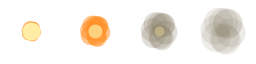
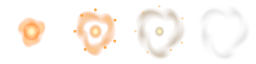
Revamp rifle and launcher flashes

diff --git a/scripts/muzzle-flash-sheet.ts b/scripts/muzzle-flash-sheet.ts
@@ -1,6 +1,5 @@
-// Builds the muzzle flash clip's sprite sheet: a hot core and uneven rays that
-// flare, then fade. Each cell keeps a transparent border, so nothing wraps.
 import {
+  blendPixel,
   createFrame,
   drawDisc,
   mixRgba,
@@ -12,18 +11,27 @@ import type { PNG } from "pngjs";
 import type { Rgba } from "./sprite-sheet.ts";
 
 const PERIOD = 63;
-const RAYS = 9;
-/** Disc samples per pixel of ray length, so strokes stay continuous. */
-const SAMPLES_PER_PIXEL = 2;
-const HOT: Rgba = [1, 0.97, 0.82, 1];
-const FLAME: Rgba = [1, 0.62, 0.18, 0.7];
-/** Each frame's core radius, longest ray, and brightness. */
+const HOT: Rgba = [1, 0.96, 0.8, 1];
+const AMBER: Rgba = [1, 0.41, 0.08, 1];
+/** Each frame's core radius, longest spike, and brightness. */
 const STAGES = [
-  { core: 6, ray: 15, alpha: 1, seconds: 0.025 },
-  { core: 9, ray: 27, alpha: 1, seconds: 0.035 },
-  { core: 7, ray: 21, alpha: 0.65, seconds: 0.03 },
-  { core: 4, ray: 12, alpha: 0.3, seconds: 0.04 },
+  { core: 8, reach: 22, alpha: 1, seconds: 0.025 },
+  { core: 8.5, reach: 28, alpha: 1, seconds: 0.035 },
+  { core: 4.5, reach: 18, alpha: 0.62, seconds: 0.03 },
+  { core: 2.5, reach: 9, alpha: 0.28, seconds: 0.04 },
 ];
+
+const SPIKES = [
+  { angle: -1.05, length: 1, width: 5 },
+  { angle: 0.49, length: 0.86, width: 5 },
+  { angle: 1.94, length: 0.76, width: 4 },
+  { angle: 3.26, length: 0.68, width: 3.5 },
+  { angle: 4.14, length: 0.53, width: 2.6 },
+].map((spike) => ({
+  ...spike,
+  x: Math.cos(spike.angle),
+  y: Math.sin(spike.angle),
+}));
 
 /** The content pack's muzzle flash clip. */
 export const MUZZLE_FLASH_CLIP = {
@@ -36,36 +44,48 @@ export const MUZZLE_FLASH_CLIP = {
 /** Rebuilds the sheet the same way on every run. */
 export function buildMuzzleFlashSheet(): PNG {
   const random = seededRandom(0xf1a5);
-  const rays = Array.from({ length: RAYS }, (_, index) => ({
-    angle: ((index + random() * 0.6) / RAYS) * Math.PI * 2,
-    reach: 0.55 + random() * 0.45,
-    width: 1.6 + random() * 1.4,
-  }));
   const center = PERIOD / 2;
-  const fade = (color: Rgba, alpha: number): Rgba => [
-    color[0],
-    color[1],
-    color[2],
-    color[3] * alpha,
-  ];
-  const frames = STAGES.map(({ core, ray, alpha }) => {
+  const sparks = Array.from({ length: 5 }, (_, index) => {
+    const angle = ((index + random() * 0.6) / 5) * Math.PI * 2;
+    return {
+      x: Math.cos(angle),
+      y: Math.sin(angle),
+      reach: 0.8 + random() * 0.2,
+    };
+  });
+  const frames = STAGES.map(({ core, reach, alpha }, stage) => {
     const frame = createFrame(PERIOD);
-    for (const { angle, reach, width } of rays) {
-      const length = ray * reach;
-      const steps = Math.ceil(length * SAMPLES_PER_PIXEL);
-      for (let step = 0; step <= steps; step++) {
-        const t = step / steps;
+    for (let y = 1; y < PERIOD; y++) {
+      for (let x = 1; x < PERIOD; x++) {
+        const dx = x + 0.5 - center;
+        const dy = y + 0.5 - center;
+        const radius = Math.hypot(dx, dy);
+        let light = Math.max(0, 1 - radius / (core + 4));
+        for (const spike of SPIKES) {
+          const along = (dx * spike.x + dy * spike.y) / (reach * spike.length);
+          if (along < 0 || along >= 1) continue;
+          const across = Math.abs(dy * spike.x - dx * spike.y);
+          const width = spike.width * (1 - along);
+          const edge = Math.min(1, Math.max(0, width + 0.55 - across));
+          light = Math.max(light, edge * (1 - along * 0.66));
+        }
+        const heat = Math.max(light * 0.42, 1 - radius / (core * 1.5));
+        const [red, green, blue] = mixRgba(AMBER, HOT, heat);
+        blendPixel(frame, x, y, [red, green, blue, light * alpha]);
+      }
+    }
+    if (stage >= 1) {
+      for (const spark of sparks) {
+        const distance = spark.reach * (19 + stage * 3.4);
         drawDisc(
           frame,
-          center + Math.cos(angle) * length * t,
-          center + Math.sin(angle) * length * t,
-          width * (1 - t) + 0.5,
-          fade(mixRgba(HOT, FLAME, t), alpha * (1 - t * 0.6)),
+          center + spark.x * distance,
+          center + spark.y * distance,
+          1.85 - stage * 0.23,
+          [1, 0.66, 0.2, alpha * 0.9],
         );
       }
     }
-    for (let radius = core; radius > 0; radius -= 1.5)
-      drawDisc(frame, center, center, radius, fade(HOT, alpha * 0.45));
     return frame;
   });
   return packSheet(frames, STAGES.length);

diff --git a/scripts/launch-flash-sheet.ts b/scripts/launch-flash-sheet.ts
@@ -1,52 +1,84 @@
 import {
+  blendPixel,
   createFrame,
   drawDisc,
+  mixRgba,
   packSheet,
   seededRandom,
 } from "./sprite-sheet.ts";
+
 import type { Rgba } from "./sprite-sheet.ts";
 
-const STAGES = [0.04, 0.045, 0.05, 0.065];
+const PERIOD = 63;
+const HOT: Rgba = [1, 0.96, 0.76, 1];
+const AMBER: Rgba = [1, 0.43, 0.075, 1];
+const EXHAUST: Rgba = [0.62, 0.64, 0.61, 1];
+const STAGES = [
+  { radius: 10, width: 5, flare: 1, haze: 0.2, core: 7, seconds: 0.04 },
+  { radius: 16, width: 6, flare: 0.83, haze: 0.36, core: 4.5, seconds: 0.045 },
+  { radius: 20, width: 7, flare: 0.17, haze: 0.54, core: 2.5, seconds: 0.05 },
+  { radius: 22, width: 7, flare: 0, haze: 0.28, core: 0, seconds: 0.065 },
+];
+
 export const LAUNCH_FLASH_CLIP = {
-  columns: 4,
+  columns: STAGES.length,
   rows: 1,
-  frames: STAGES.map((seconds, cell) => ({ cell, seconds })),
+  frames: STAGES.map(({ seconds }, cell) => ({ cell, seconds })),
   playback: "once",
 } as const;
 
-/** A broad amber pressure flash with a fading exhaust cloud. */
+/** An uneven ring of hot gas that opens into curling exhaust. */
 export function buildLaunchFlashSheet() {
   const random = seededRandom(0x1a0c);
-  const clouds = Array.from({ length: 9 }, () => ({
-    angle: random() * Math.PI * 2,
-    reach: 0.6 + random() * 0.4,
-  }));
-  return packSheet(
-    STAGES.map((_, index) => {
-      const frame = createFrame(63);
-      const radius = [9, 14, 17, 21][index]!;
-      for (const { angle, reach } of clouds) {
-        const color: Rgba =
-          index < 2
-            ? [1, 0.55, 0.12, 0.6 - index * 0.1]
-            : [0.53, 0.49, 0.4, 0.25 - (index - 2) * 0.1];
+  const embers = Array.from({ length: 7 }, (_, index) => {
+    const angle = ((index + random() * 0.62) / 7) * Math.PI * 2;
+    return {
+      x: Math.cos(angle),
+      y: Math.sin(angle),
+      reach: 0.8 + random() * 0.2,
+    };
+  });
+  const center = PERIOD / 2;
+  const frames = STAGES.map(({ radius, width, flare, haze, core }, stage) => {
+    const frame = createFrame(PERIOD);
+    for (let y = 1; y < PERIOD; y++) {
+      for (let x = 1; x < PERIOD; x++) {
+        const dx = (x + 0.5 - center) * 1.09;
+        const dy = y + 0.5 - center;
+        const distance = Math.hypot(dx, dy);
+        const angle = Math.atan2(dy, dx);
+        const wave = Math.cos(angle * 3 + 1.2);
+        const curl = Math.sin(angle * 5 + distance * 0.27);
+        const crest = radius * (1 + wave * 0.13 + curl * 0.07);
+        const band = Math.max(0, 1 - Math.abs(distance - crest) / width);
+        const taper = Math.min(1, Math.max(0, (29.5 - distance) / 4));
+        const pressure = band * (0.68 + wave * 0.2 + curl * 0.12) * flare;
+        const smoke = band * (0.63 + curl * 0.37) * haze;
+        const ignition = core ? Math.max(0, 1 - distance / (core + 3)) : 0;
+        const heat = Math.max(ignition * 1.25, pressure * 0.88);
+        const opacity = Math.min(1, (pressure + smoke + ignition * 2) * taper);
+        const [red, green, blue] = mixRgba(
+          mixRgba(EXHAUST, AMBER, flare),
+          HOT,
+          Math.min(1, heat),
+        );
+        if (opacity > 0) blendPixel(frame, x, y, [red, green, blue, opacity]);
+      }
+    }
+    if (stage === 1 || stage === 2) {
+      for (const ember of embers) {
+        const distance = (19 + stage * 3.8) * ember.reach;
         drawDisc(
           frame,
-          31.5 + Math.cos(angle) * radius * reach * 0.5,
-          31.5 + Math.sin(angle) * radius * reach * 0.5,
-          radius * 0.7,
-          color,
+          center + ember.x * distance,
+          center + ember.y * distance,
+          stage === 1 ? 1.45 : 1.1,
+          [1, 0.63, 0.21, stage === 1 ? 0.88 : 0.46],
         );
       }
-      if (index < 3)
-        drawDisc(frame, 31.5, 31.5, 9 - index * 2, [
-          1,
-          0.93,
-          0.65,
-          1 - index * 0.3,
-        ]);
-      return frame;
-    }),
-    4,
-  );
+    }
+    return frame;
+  });
+
+  return packSheet(frames, STAGES.length);
 }

diff --git a/tests/circle-wolf-den.test.ts b/tests/circle-wolf-den.test.ts
@@ -202,7 +202,7 @@ test("the authored paid opening delivers Lifebloom, reveals the second site, and
   until(() => !!sim.actorById("sentinel") && !!sim.actorById("wayfinder"));
   expect(balance(sim)).toBe(0);
   expect(sim.economy!.loot.every(({ collected }) => !collected)).toBe(true);
-});
+}, 20_000);
 
 /**
  * Plays the authored introduction. With `checkpoints`, it reloads from the

diff --git a/DESIGN.md b/DESIGN.md
@@ -1083,8 +1083,8 @@ These systems are outside M1.
   Generated amber and green lamps preserve its state when motion is reduced.
 - Frame effects play a content pack's texture clip once on a camera-facing
   square anchored in the actor's model space, so they turn with it. An actor's
-  presentation names them by trigger. The Trooper's muzzle flash plays on
-  `attack`.
+  presentation names them by trigger. Trooper and Demolition Trooper flashes
+  play on `attack`.
 - Reduced motion skips trigger clips, settles collector transitions, holds
   locomotion on its first frame and aim at its held pose, suppresses turn
   leans, holds frame effects on their first frame, and shows death clips' last
@@ -1909,7 +1909,7 @@ acceptance progress. The following sections define the selected scope.
 - ARC's **Demolition Trooper** is fragile, slow-firing infantry with a portable
   heavy launcher that outranges basic defenses. The Field Barracks trains it,
   and Medics restore its health.
-- Launcher shots show an amber pressure flash, a brief smoke-and-ember streak,
+- Launcher shots show an amber pressure ring, a brief smoke-and-ember streak,
   and an impact burst, with distinct ignition and impact sounds. Visuals follow
   committed hits without adding travel time or splash damage. A visible impact
   draws no trail toward a hidden shooter. Reduced motion holds effect shapes
@@ -2000,13 +2000,15 @@ acceptance progress. The following sections define the selected scope.
   cyan visor and owner markings on the helmet, shoulders, and pack. They
   keep the rifle braced in both hands while moving and lean into their aim.
 - Trooper and Sentry tracers shade from amber at the muzzle to a pale,
-  tapered tip at the target.
+  tapered tip at the target. Trooper rifles flash with a compact pale core
+  and uneven amber spikes that shrink as the sparks scatter.
 - Demolition Troopers wear faceted charcoal armor with amber visors. A
   shoulder launcher with a faceted shroud and pale muzzle rim sets their
   silhouette. Owner markings sit on the armor, launcher, and rear rack
   with twin rocket tubes. They keep the launcher braced while moving.
-  The production portrait shows the same kit. Their shots leave a scalloped
-  smoke wake behind a tapered amber streak with a pale leading tip.
+  The production portrait shows the same kit. The muzzle flash opens into
+  an uneven amber ring with embers and curling exhaust. Their shots leave a
+  scalloped smoke wake behind a tapered amber streak with a pale leading tip.
   Impacts bloom into a pale fireball with tapered amber sparks and a low
   ring of ash.
 - Scouts wear light sand-colored armor over slate fatigues, with paired

diff --git a/docs/actor-assets.md b/docs/actor-assets.md
@@ -140,8 +140,8 @@ clips match their generators, and reject unregistered files in `public/assets`.
   grass sprite sheets. A periodic wind field bends neighboring tufts together,
   and phased tiles carry the gust across the ground.
 - `npm run assets:effects`: `scripts/muzzle-flash-sheet.ts` generates the
-  Trooper's muzzle-flash sprite sheet. `scripts/launch-flash-sheet.ts` generates
-  the launcher's broader amber pressure flash and exhaust cloud.
+  Trooper's tapered muzzle flash and sparks. `scripts/launch-flash-sheet.ts`
+  generates the launcher's expanding amber pressure ring and curled exhaust.
 
 Each command prints its textures' minimap colors and its clip definitions;
 update matching content-pack graphics when changing the art.

diff --git a/TODO.md b/TODO.md
@@ -216,6 +216,9 @@ challenge, pacing, and useful choices.
   - Terrain textures, grass sway, scenery, lighting, contact shadows, and fog
     were reviewed at gameplay zoom in both skirmish starts and introductions,
     the center crossing, the shoreline, and the Circle den and bird loop.
+  - Rifle and launcher flash sheets were reviewed with simultaneous tracers,
+    rocket effects, and a Circle focus bolt at gameplay zoom and under
+    reduced motion.
 - [ ] **1.65** After 1.76, distribute the integrated build through the agreed
   channel and run full skirmish playtests with both factions. Observe in-game
   onboarding, time to key milestones, assistance, confusion, and abandonment;
